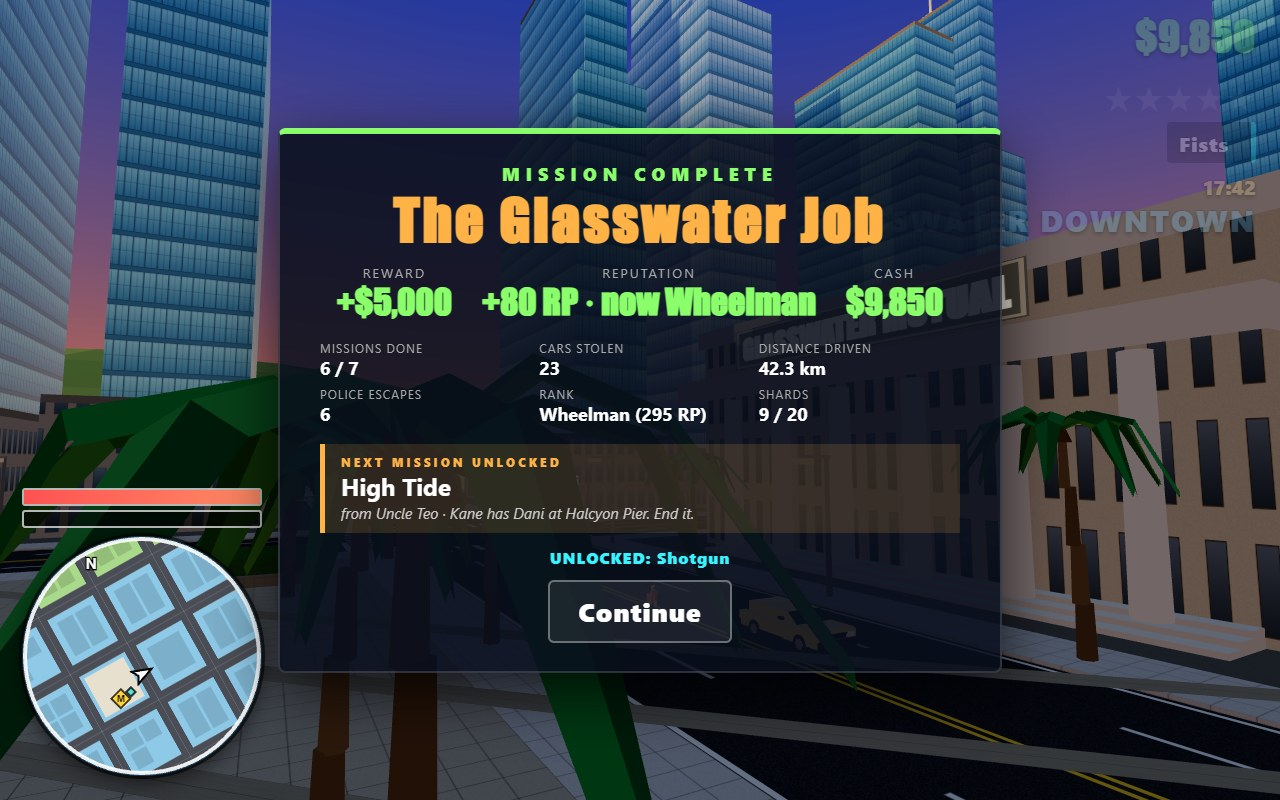
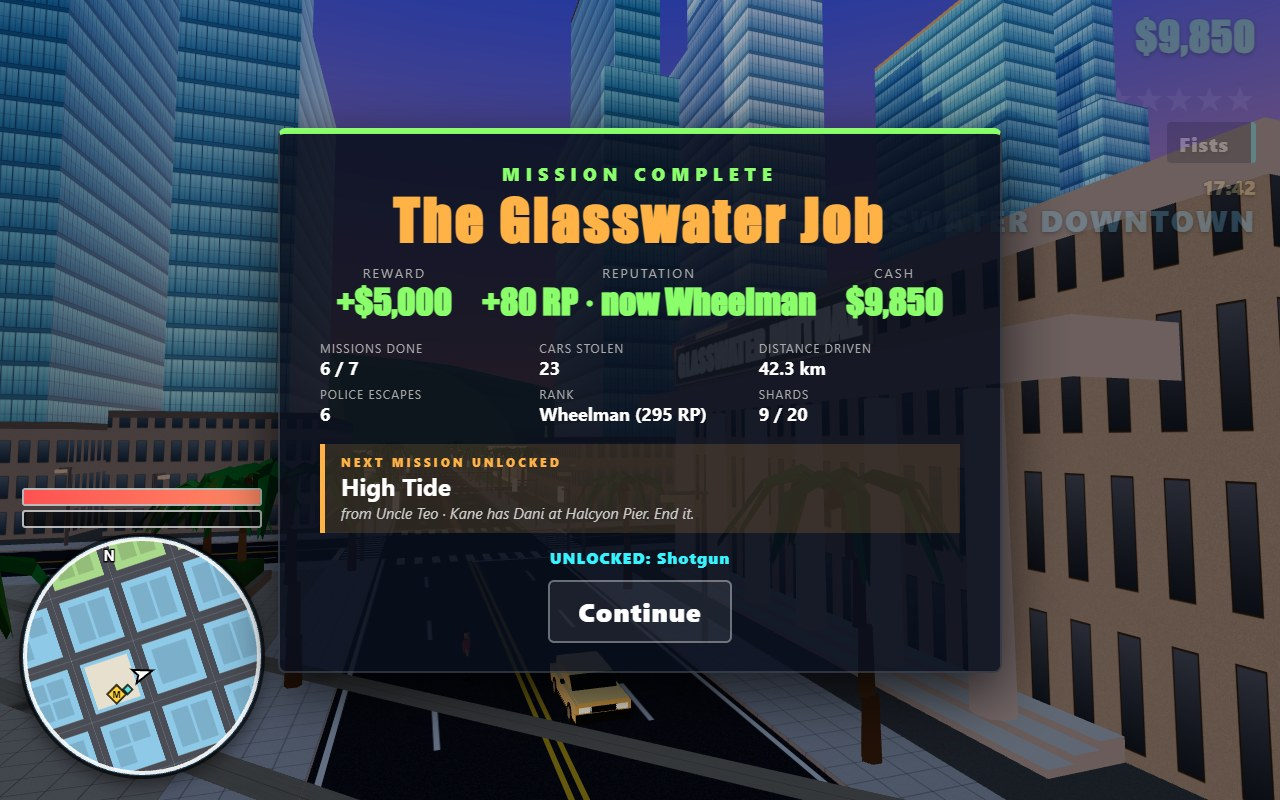
Playtest checks for every fix, cover recomposed, all screenshots retaken
- New checks: default/saved sensitivity, long-way flick, E/Q never turn the camera, W brakes a reversing car, body roll and bike lean signs, rider hips on the saddle and feet at the pegs (player and AI), markers by mode, fire fuse and warning from any damage path, slope vs kerb physics, heat after a lost star, lock-loss pause and click-to-resume (first click never fires), arrest in a car with no driving.
- Cover: tight lens ahead of the drifting coupe on the beach side, two cruisers close behind with lightbars, helicopter and beam under the objective, palms lining the drive, hotels, beach, crowd, wheel; mission shot camera clear of the palm fronds; rider review scene.

diff --git a/game/src/shots.js b/game/src/shots.js
@@ -53,9 +53,13 @@ export async function stageShot(name, G) {
   };
 
   if (name === 'chase') {
-    // Westbound on Ocean Drive: the sun ahead-left over the sea, the pier and hotels behind.
+    // The cover. Westbound on Ocean Drive at four stars: the red coupe drifts big in the middle
+    // of the frame, two cruisers close behind it with their lightbars going, the helicopter and
+    // its beam over them, palms lining both pavements, the hotels on the left and the beach,
+    // pier and ferris wheel on the right, traffic and a watching crowd, the full HUD.
     const z = layout.oceanZ - 1.75;
-    const x0 = layout.roadX(4) + 18;
+    const shiftParam = Number.parseFloat(new URLSearchParams(window.location.search).get('shift'));
+    const x0 = layout.roadX(4) + 48 + (Number.isFinite(shiftParam) ? shiftParam : 0);
     const coupe = G.fleet.spawn('coupe', x0, z, -Math.PI / 2, { color: '#c81e2e', role: 'player', owner: 'player' });
     G.player.enterVehicle(coupe);
     G.economy.money = 4350;
@@ -65,25 +69,18 @@ export async function stageShot(name, G) {
     G.weapons.select('smg');
     G.radio.setStation(0, true);
     G.world.sky.setHour(17.45);
-    G.traffic.spawnCar({ x: x0 + 48, z: layout.oceanZ + 5.25, yaw: Math.PI / 2, node: G.nav.node(5, 9), dir: 'e', lane: 1 }, 'taxi');
-    G.traffic.spawnCar({ x: x0 + 70, z: layout.oceanZ + 1.75, yaw: Math.PI / 2, node: G.nav.node(5, 9), dir: 'e', lane: 0 }, 'sedan');
-    G.traffic.spawnCar({ x: x0 - 70, z: layout.oceanZ - 5.25, yaw: -Math.PI / 2, node: G.nav.node(3, 9), dir: 'w', lane: 1 }, 'van');
-    // Oncoming traffic in the far lane beside the camera, so the drive reads as a busy street.
-    const passing = G.traffic.spawnCar({ x: x0 - 4, z: layout.oceanZ + 5.25, yaw: Math.PI / 2, node: G.nav.node(5, 9), dir: 'e', lane: 1 }, 'pickup');
-    passing.vx = 9;
-    const from = { x: x0 + 6, z };
+    // Traffic along the drive: eastbound cars in the far lanes ahead of the camera, a van behind.
+    G.traffic.spawnCar({ x: x0 + 14, z: layout.oceanZ + 5.25, yaw: Math.PI / 2, node: G.nav.node(5, 9), dir: 'e', lane: 1 }, 'taxi');
+    G.traffic.spawnCar({ x: x0 + 34, z: layout.oceanZ + 1.75, yaw: Math.PI / 2, node: G.nav.node(6, 9), dir: 'e', lane: 0 }, 'sedan');
+    G.traffic.spawnCar({ x: x0 + 52, z: layout.oceanZ + 5.25, yaw: Math.PI / 2, node: G.nav.node(6, 9), dir: 'e', lane: 1 }, 'pickup');
+    G.traffic.spawnCar({ x: x0 + 48, z: layout.oceanZ - 5.25, yaw: -Math.PI / 2, node: G.nav.node(5, 9), dir: 'w', lane: 1 }, 'van');
+    const from = { x: x0 - 20, z };
     crowd(G, [
-      [x0 - 15, layout.oceanZ - 9, false], [x0 - 19, layout.oceanZ - 8.4, false], [x0 - 9, layout.oceanZ - 9.6, true], [x0 + 2, layout.oceanZ - 8.8, false], [x0 + 10, layout.oceanZ - 9.2, true],
-      [x0 - 14, layout.boardwalkZ + 2.5, true], [x0 - 6, layout.boardwalkZ + 4, true], [x0 + 4, layout.boardwalkZ + 3, false], [x0 - 22, layout.boardwalkZ + 3.5, false], [x0 + 14, layout.boardwalkZ + 2, false], [x0 - 26, layout.boardwalkZ + 2.2, false],
+      [x0 - 15, layout.oceanZ - 9, false], [x0 - 19, layout.oceanZ - 8.4, false], [x0 - 9, layout.oceanZ - 9.6, true], [x0 + 2, layout.oceanZ - 8.8, false], [x0 + 10, layout.oceanZ - 9.2, true], [x0 + 22, layout.oceanZ - 9.4, false],
+      [x0 - 14, layout.boardwalkZ + 2.5, true], [x0 - 6, layout.boardwalkZ + 4, true], [x0 + 4, layout.boardwalkZ + 3, false], [x0 - 22, layout.boardwalkZ + 3.5, false], [x0 + 14, layout.boardwalkZ + 2, false], [x0 - 26, layout.boardwalkZ + 2.2, false], [x0 + 26, layout.boardwalkZ + 3.2, false],
     ], from);
     // Bystanders who stay put and watch the chase go by.
-    for (const ped of G.pedestrians.list) if (ped.state === 'walk') { ped.state = 'wait'; ped.waitTimer = 30; ped.yaw = Math.atan2(x0 - ped.x, z - ped.z); }
-    const cruisers = [];
-    for (const [dx, dz] of [[11, -3.6], [17, 0.8], [24, -3.0], [31, 4.0]]) {
-      const c = G.police.spawnCruiser({ x: x0 + dx, z: z + dz, yaw: -Math.PI / 2 });
-      c.vx = -20;
-      cruisers.push(c);
-    }
+    for (const ped of G.pedestrians.list) if (ped.state === 'walk') { ped.state = 'wait'; ped.waitTimer = 30; ped.yaw = Math.atan2(x0 - 24 - ped.x, z - ped.z); }
     G.wanted.setStars(4);
     G.wanted.search.x = x0 + 40;
     G.wanted.search.z = z + 20;
@@ -91,21 +88,35 @@ export async function stageShot(name, G) {
     G.hud.setObjective("Lose the cops before reaching Teo's garage");
     G.hud.setWaypoint(L.garageParking.x, L.garageParking.z, 'objective');
     if (G.missions.startMarker) G.markers.remove(G.missions.startMarker);
+    // The drift: full speed west, then a handbrake flick to the right that swings the tail out.
     coupe.vx = -22;
-    for (const c of cruisers) c.ai.setChase(playerTarget(G), 30);
-    drive(G, 1.1, [KEYS.forward]);
-    drive(G, 0.7, [KEYS.forward, KEYS.handbrake, KEYS.right]);
-    drive(G, 0.2, [KEYS.forward, KEYS.right]);
-    for (const c of cruisers) c.siren = true;
+    drive(G, 0.9, [KEYS.forward]);
+    drive(G, 0.45, [KEYS.forward, KEYS.handbrake, KEYS.right]);
+    drive(G, 0.15, [KEYS.forward, KEYS.right]);
     const v = G.player.vehicle;
-    G.police.summonHeli(v.x + 30, v.z + 1.5);
-    G.police.heli.y = 13.5;
+    // Two cruisers right on its tail, one in each lane, angled in toward it, lightbars on.
+    const cruisers = [];
+    for (const [dx, dz, turn] of [[9, -4.5, 0.2], [14.5, -0.5, -0.12]]) {
+      const c = G.police.spawnCruiser({ x: v.x + dx, z: v.z + dz, yaw: -Math.PI / 2 + turn });
+      c.vx = -19;
+      c.siren = true;
+      c.ai.setChase(playerTarget(G), 30);
+      cruisers.push(c);
+    }
+    // Camera ahead of the coupe on the beach side, raised, looking back east down the drive with
+    // a tight lens that keeps the nearest palm crowns out of the corners; the helicopter hangs
+    // low over the road behind the cruisers, in the clear sky under the objective, nose to us.
+    // (?cam=dx,dy,dz,lx,ly,lz,fov,hx,hz,hy and ?shift=metres override these for composition reviews.)
+    const cam = [-8.5, 5.2, 2, 12, 0.6, 1, 46, 26.5, 0.3, 5.9];
+    const camParam = new URLSearchParams(window.location.search).get('cam');
+    if (camParam) camParam.split(',').forEach((n, i) => { if (Number.isFinite(Number.parseFloat(n))) cam[i] = Number.parseFloat(n); });
+    G.police.summonHeli(v.x + cam[7], v.z + cam[8]);
+    G.police.heli.y = cam[9];
     G.police.heli.angle = Math.PI;
     G.simulate(0.06, 1 / 60);
-    // Camera ahead of the coupe (west, by the road's direction) on the sea side, low, looking back east.
-    const camPos = { x: v.x - 10.2, y: v.y + 2.1, z: v.z + 4.4 };
-    const look = { x: v.x + 7, y: v.y + 3.1, z: v.z - 1.8 };
-    G.camera.camera.fov = 56;
+    const camPos = { x: v.x + cam[0], y: v.y + cam[1], z: v.z + cam[2] };
+    const look = { x: v.x + cam[3], y: v.y + cam[4], z: v.z + cam[5] };
+    G.camera.camera.fov = cam[6];
     G.camera.camera.updateProjectionMatrix();
     placeCamera(G, camPos, look);
     finish();
@@ -185,8 +196,9 @@ export async function stageShot(name, G) {
     G.economy.money = 9850;
     G.economy.rep = 295;
     G.economy.stats.missions = 6;
-    const cam = { x: car.x - 18, y: 7, z: car.z + 20 };
-    placeCamera(G, cam, { x: car.x + 10, y: 12, z: car.z - 30 });
+    // From above the road, clear of the pavement palms, with the towers behind the panel.
+    const cam = { x: car.x - 6, y: 9.5, z: car.z + 24 };
+    placeCamera(G, cam, { x: car.x + 12, y: 13, z: car.z - 30 });
     finish();
     G.menus.showMissionComplete({ def: bank, money: 5000, rep: 80, levelUp: true, next: tide, finale: false });
     return;
@@ -215,6 +227,27 @@ export async function stageShot(name, G) {
     G.player.revive(layout.roadX(4) - 24, z - 6, 0);
     G.simulate(0.3, 1 / 60);
     placeCamera(G, { x: layout.roadX(4) + 4, y: 3.2, z: z + 13 }, { x: layout.roadX(4) + 2, y: 0.8, z: z });
+    finish();
+    return;
+  }
+
+  if (name === 'rider') {
+    // Sol and an AI rider on Kestrels, side on, for reviewing the seat and the lean.
+    const z = layout.oceanZ + 1.75;
+    const x = layout.roadX(4) - 10;
+    G.world.sky.setHour(17.3);
+    const bike = G.fleet.spawn('bike', x, z, Math.PI / 2, { role: 'player', owner: 'player', color: '#c1121f' });
+    G.player.revive(x, z - 2, 0);
+    G.player.enterVehicle(bike);
+    const ai = G.traffic.spawnCar({ x: x + 4, z: z - 3.5, yaw: Math.PI / 2 - 0.6, node: G.nav.node(5, 9), dir: 'e', lane: 0 }, 'bike');
+    ai.ai.limit = 0;
+    ai.ctrl.handbrake = true;
+    G.simulate(0.3, 1 / 60);
+    bike.model.bodyGroup.rotation.z = 0.25;
+    G.player.model.animateSeated(true, 0.25 * 0.35);
+    G.simulate(1 / 60, 1 / 60);
+    bike.model.bodyGroup.rotation.z = 0.25;
+    placeCamera(G, { x: x + 1.5, y: 1.5, z: z + 4.6 }, { x: x + 1.2, y: 0.9, z: z });
     finish();
     return;
   }
